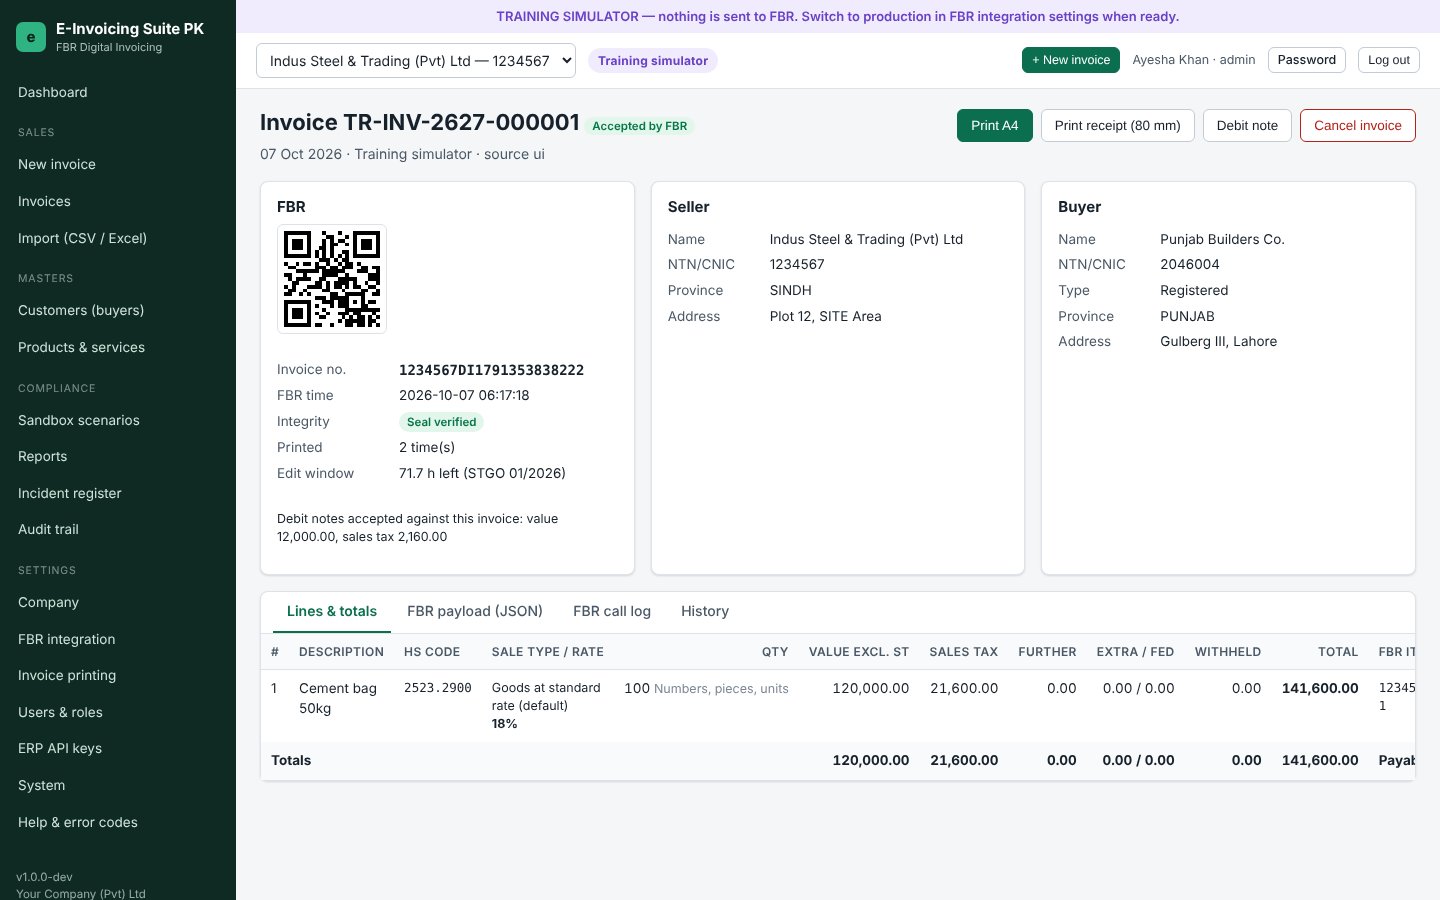
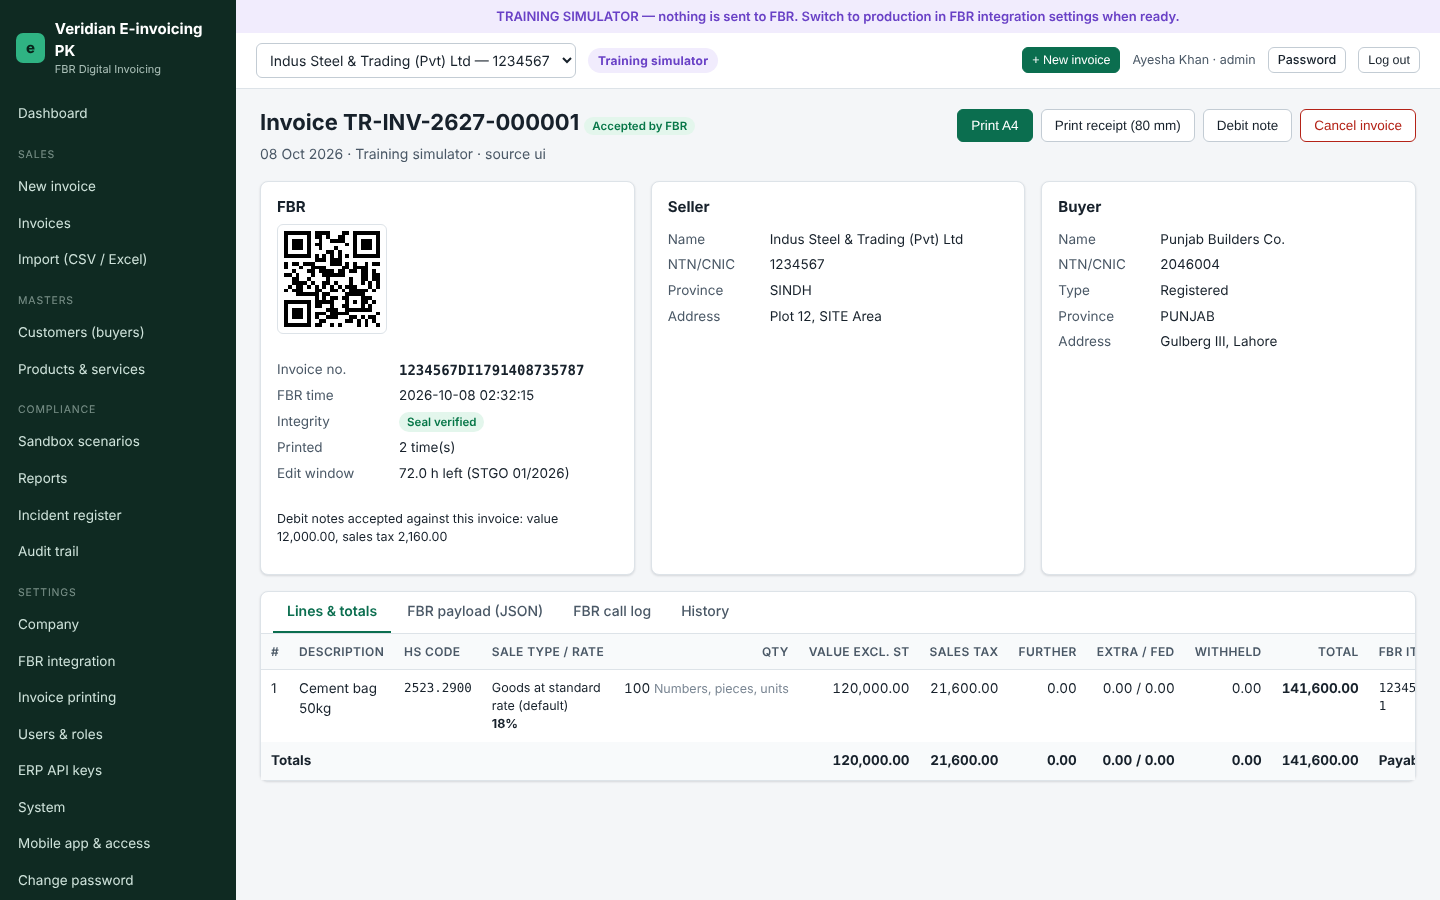
Docs: new screenshots (Veridian branding, phone views), architecture update
- Retaken screenshots with the new product name; added the Mobile app &
  access page, FBR integration settings and phone views of the
  dashboard, menu and an accepted invoice (README, user manual, mobile
  guide).
- Architecture: submission detaches from the caller, 502 handling,
  offline_since tracking, stuck-submission release, production-only
  Rule 150R incidents, unexpected-stop and tamper detection, migrations.

Claude-Session: https://claude.ai/code/session_01SW1mxwDAaUfkUDhwg8oahm

diff --git a/docs/ARCHITECTURE.md b/docs/ARCHITECTURE.md
@@ -59,8 +59,8 @@ Everything runs in one process with no external services. The database is a sing
                        REJECTED ◄────── SUBMITTING ──────► ACCEPTED ──► CANCELLED
                        (FBR errors)        │   │  FBR 00      (locked)    (after IRIS
                                            │   │                           cancellation)
-                         not sent / 502 /  │   │  timeout after send,
-                         503 / auth fail   ▼   ▼  5xx, bad response
+                         not sent / 503 /  │   │  timeout after send,
+                         429 / auth fail   ▼   ▼  502 or other 5xx, bad response
                                        QUEUED  UNCERTAIN ("Needs reconciliation")
                                   (auto retry)  → accepted (FBR no. entered) / retry / draft
 ```
@@ -69,31 +69,35 @@ Submit sequence (`internal/service/submit.go`):
 
 1. Lock the invoice (per-invoice mutex). Already ACCEPTED → return it (idempotent). SUBMITTING/UNCERTAIN → refuse.
 2. Run local validation; any error blocks submission.
-3. Check environment prerequisites: token; licence for production.
+3. Check environment prerequisites: token; licence for production (not for invoices already issued and queued).
 4. Build the payload, store it with its hash, and mark the invoice SUBMITTING **before** sending.
-5. Optionally call `validateinvoicedata`, then `postinvoicedata`.
-6. Classify the outcome (`internal/fbr/client.go`):
+5. Detach from the caller's context, so the exchange and the recording of its outcome complete even if the browser or ERP disconnects (the FBR client's timeout bounds the calls).
+6. Optionally call `validateinvoicedata`, then `postinvoicedata`.
+7. Classify the outcome (`internal/fbr/client.go`):
 
 | Outcome | Classification | Status |
 |---|---|---|
 | FBR status 00 | — | **ACCEPTED**: FBR numbers stored, seal computed, in one transaction |
 | FBR status 01 | — | **REJECTED** with per-line errors |
 | Connection refused / DNS failure (request never written) | `not_sent` | **QUEUED**, backoff 30 s × 2ⁿ up to 30 min |
-| HTTP 502/503/429 | `unavailable` | **QUEUED** |
+| HTTP 503/429 (and 502 on read-only calls) | `unavailable` | **QUEUED** |
 | HTTP 401/403 | `auth` | **QUEUED** for 15 min; auth-failure incident |
-| Timeout or broken connection after the request was written; other 5xx; undecodable response | `uncertain` / `decode` | **UNCERTAIN**: never retried automatically |
+| Timeout or broken connection after the request was written; 502 or other 5xx on posting; undecodable response | `uncertain` / `decode` | **UNCERTAIN**: never retried automatically |
 | Other 4xx | `client` | **REJECTED** |
 
-On startup, invoices left in SUBMITTING by a crash are moved to UNCERTAIN (`RecoverStuckSubmissions`). The worker:
+Invoices queued for connectivity or token reasons record `offline_since`; they stay on the dashboard's "not yet reported" count until FBR accepts them (24-hour upload rule).
 
-- re-submits due QUEUED invoices;
-- opens and closes incidents (FBR unreachable for 10+ minutes; auth failures);
+Invoices left in SUBMITTING are released by `RecoverStuckSubmissions`: never sent → QUEUED; possibly sent → UNCERTAIN. This runs at startup for all of them, and on every worker tick for those older than twice the FBR timeout plus a minute. The worker also:
+
+- re-submits due QUEUED invoices, and the whole queue at once when posting to FBR works again; a connection test after an outage probes with one queued invoice. Invoices refused before reaching FBR (e.g. token removed) are deferred for 15 minutes so they cannot block the queue;
+- opens and closes Rule 150R incidents for production only: FBR unreachable (3+ failed calls over 10+ minutes), auth failures, unexpected stops (heartbeat without an orderly-shutdown marker, `internal/service/integrity.go`) and tampering;
+- runs a daily integrity check of the audit chain and every accepted invoice's seal and chain link;
 - purges expired sessions;
 - writes the daily backup.
 
 ## 4. Data model
 
-The schema is in `internal/db/migrations/0001_init.sql`.
+The schema is in `internal/db/migrations/` (`0001_init.sql`; `0002_offline_since.sql` adds the offline marker). Migrations are applied in order at startup, each once.
 
 **Tables**
 
@@ -112,7 +116,7 @@ The schema is in `internal/db/migrations/0001_init.sql`.
   - reported invoices cannot be deleted;
   - `audit_log` rows can never be updated or deleted.
 - **Invoice seal:** each accepted invoice stores a SHA-256 hash of its canonical content chained to the company's previous seal. The invoice view shows "Seal verified" or "Seal mismatch".
-- **Audit chain:** every audit entry stores `hash = SHA-256(previous hash + entry)`. **Verify integrity** recomputes the chain.
+- **Audit chain:** every audit entry stores `hash = SHA-256(previous hash + entry)`. **Verify integrity** (and the worker, daily) recomputes the chain and every invoice seal; a problem opens a tampering incident. The hashes are not keyed, so they detect edits made without recomputing them; protecting the server and database file remains essential.
 
 ## 5. Security
 

diff --git a/docs/USER-MANUAL.md b/docs/USER-MANUAL.md
@@ -223,7 +223,17 @@ Every action is logged with user, time and details: logins, invoices, changes, c
 
 Open **Mobile app & access** in the menu. It has a QR code to open the system on your phone, an **Install** button (or instructions for Android and iPhone) and the certificate the phone needs to trust the server. On a phone, the menu opens from the **☰** button. See [MOBILE-AND-REMOTE-ACCESS.md](MOBILE-AND-REMOTE-ACCESS.md).
 
+![Mobile app & access](images/mobile-access.png)
+
+<p>
+<img src="images/phone-dashboard.png" alt="Dashboard on a phone" width="240">
+<img src="images/phone-menu.png" alt="Menu on a phone" width="240">
+<img src="images/phone-invoice.png" alt="Accepted invoice on a phone" width="240">
+</p>
+
 ## 16. Settings
+
+![FBR integration settings](images/fbr-settings.png)
 
 | Page | Purpose |
 |---|---|

diff --git a/README.md b/README.md
@@ -24,6 +24,8 @@ It is a single program with a built-in web interface. It is installed on the cli
 | ![Invoice view](docs/images/invoice-view.png) | ![Printed invoice](docs/images/print-a4.png) |
 | **Sandbox scenarios (FBR certification)** | **Reports (Annexure-C reconciliation)** |
 | ![Scenarios](docs/images/scenarios.png) | ![Reports](docs/images/reports.png) |
+| **Mobile app & access (QR code, install, certificate)** | **On a phone: dashboard, menu and accepted invoice** |
+| ![Mobile app & access](docs/images/mobile-access.png) | <img src="docs/images/phone-dashboard.png" alt="Phone dashboard" width="31%"> <img src="docs/images/phone-menu.png" alt="Phone menu" width="31%"> <img src="docs/images/phone-invoice.png" alt="Phone invoice" width="31%"> |
 
 ## Features
 

diff --git a/docs/MOBILE-AND-REMOTE-ACCESS.md b/docs/MOBILE-AND-REMOTE-ACCESS.md
@@ -14,6 +14,14 @@ Open `https://<server-address>:8443/` in Chrome, Edge, Firefox or Safari, for ex
 
 **Mobile app & access** in the menu shows a QR code for each of the server's network addresses. Scan it with a phone camera to open the system on that phone.
 
+<p>
+<img src="images/phone-dashboard.png" alt="Dashboard on a phone" width="240">
+<img src="images/phone-menu.png" alt="Menu on a phone" width="240">
+<img src="images/phone-invoice.png" alt="Accepted invoice with FBR number and QR code on a phone" width="240">
+</p>
+
+![Mobile app & access page](images/mobile-access.png)
+
 ## 2. Installing the app on a phone or tablet
 
 Browsers only install apps from a **trusted HTTPS** connection. Do the following once per phone.
